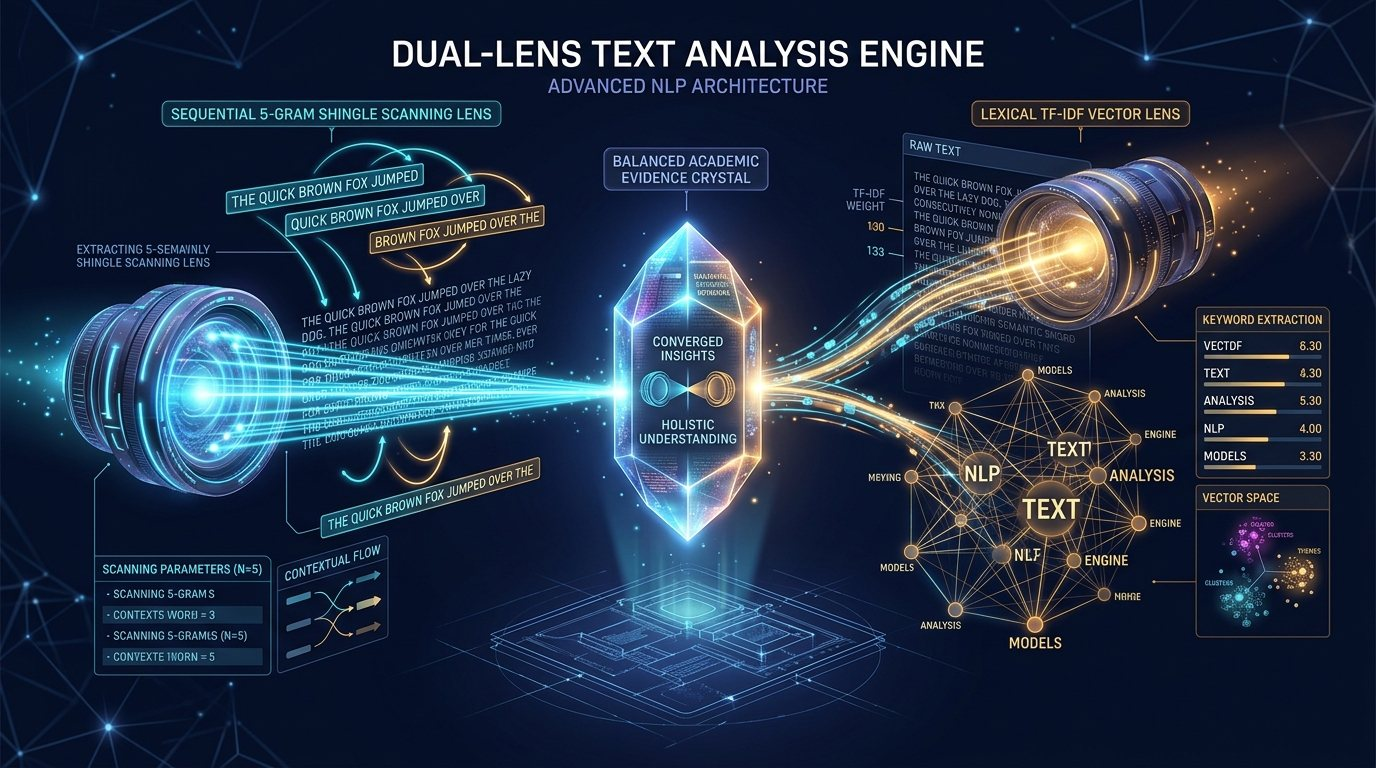
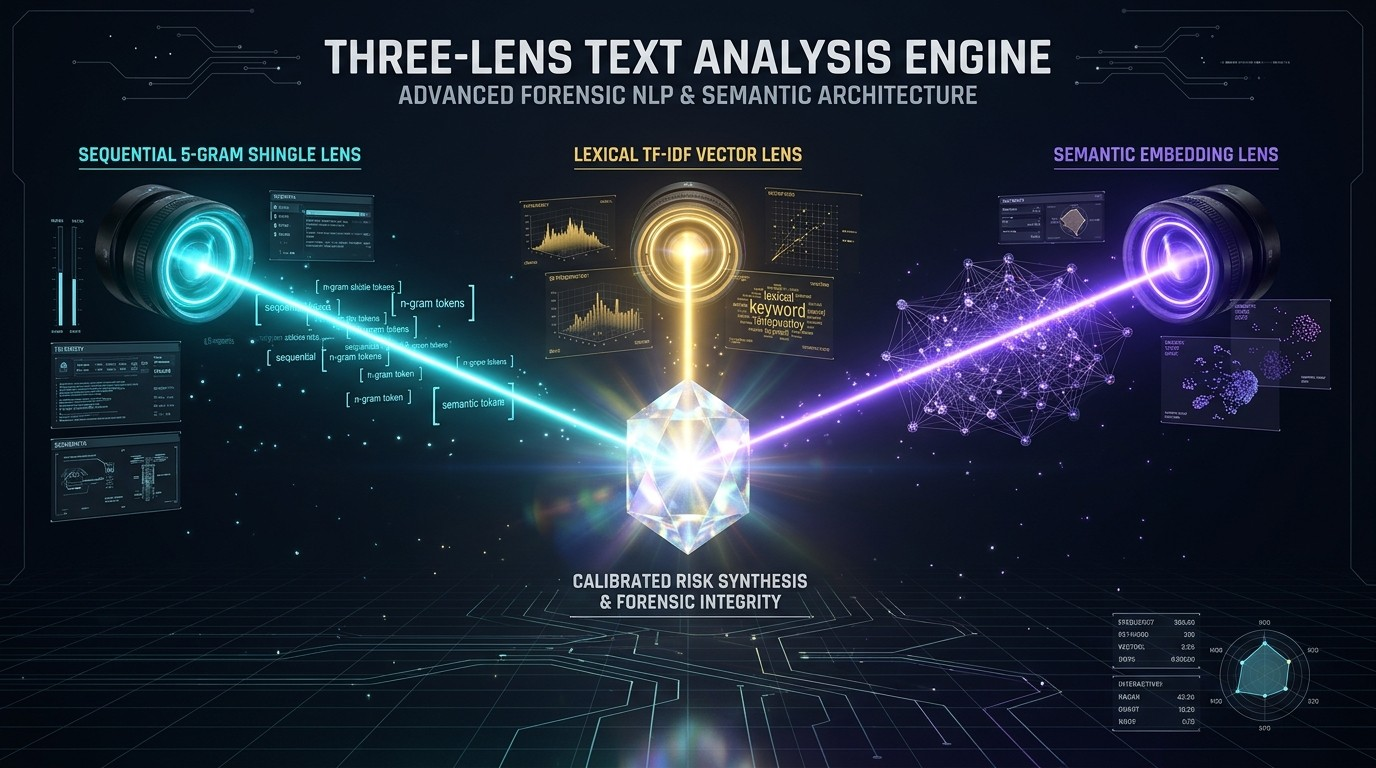
feat(benchmark): add Latin capability boundary row and regenerate three-lens concept diagram

diff --git a/app/Views/landing/benchmark.php b/app/Views/landing/benchmark.php
@@ -1627,6 +1627,25 @@ guna menguji pengaruh variabel independen terhadap variabel dependen dengan tara
                                 </span>
                             </td>
                         </tr>
+                        <tr style="background: rgba(254, 242, 242, 0.65);">
+                            <td><strong>Indonesia ↔ Latin (LA)</strong><br><span style="font-size: 11px; color: #be123c; font-weight: 700;">Batas Kapabilitas Terbuka</span></td>
+                            <td>Vulgata Kitab Suci (Kejadian, Mazmur, Injil), Liturgi Katolik (Pater Noster, Credo), Hukum Romawi Klasik (Ulpianus)</td>
+                            <td style="text-align: center; font-mono-code; font-weight: 700; color: #991b1b;">0.3019</td>
+                            <td style="text-align: center; font-mono-code; font-size: 12px; color: #991b1b;">0.18 .. 0.41</td>
+                            <td style="text-align: center; font-weight: 800; color: #991b1b;">
+                                0 / 10 (0.0%)<br>
+                                <span style="font-size: 10px; color: #be123c; font-weight: 600;">Wilson: 0,0% – 27,8%</span>
+                            </td>
+                            <td style="text-align: center; font-weight: 800; color: #991b1b;">
+                                0 / 10 (0.0%)<br>
+                                <span style="font-size: 10px; color: #be123c; font-weight: 600;">Wilson: 0,0% – 27,8%</span>
+                            </td>
+                            <td>
+                                <span style="font-size: 11px; padding: 2px 8px; border-radius: 4px; background: #fee2e2; color: #991b1b; font-weight: 800;">
+                                    Tanpa Lencana (Di Luar Jangkauan MiniLM-L12)
+                                </span>
+                            </td>
+                        </tr>
                     </tbody>
                 </table>
             </div>
@@ -1635,7 +1654,7 @@ guna menguji pengaruh variabel independen terhadap variabel dependen dengan tara
             <div style="display: grid; grid-template-columns: repeat(auto-fit, minmax(300px, 1fr)); gap: 14px; margin-top: 16px;">
                 <div style="background: #f8fafc; border: 1px solid #e2e8f0; border-radius: 12px; p: 14px; padding: 14px;">
                     <h4 style="font-size: 13px; font-weight: 800; color: var(--dark); margin: 0 0 6px 0;">
-                        🔍 Temuan Pergeseran Aksara (Latin vs Non-Latin)
+                        🔍 Temuan Pergeseran Aksara (Aksara Latin vs Non-Latin)
                     </h4>
                     <p style="font-size: 12px; color: var(--text); line-height: 1.6; margin: 0;">
                         * <strong>Rumpun Aksara Latin (EN, NL, DE)</strong>: Rerata kosinus $0{,}8104$ | Recall@0.75: $73{,}3\%$ | Recall@0.70: $93{,}3\%$.<br>
@@ -1654,6 +1673,17 @@ guna menguji pengaruh variabel independen terhadap variabel dependen dengan tara
                         * <strong>Kosinus Puncak Terbersih</strong>: $0{,}2274$ (22,7%)<br>
                         * <strong>False Positive Rate</strong>: $0{,}0\%$ pada ambang $0{,}75$ dan $0{,}0\%$ pada ambang $0{,}70$.<br>
                         * <strong>Margin Keamanan Anti-Salah-Tuduh</strong>: $+47{,}3$ poin ke ambang $0{,}70$ dan $+52{,}3$ poin ke ambang $0{,}75$.
+                    </p>
+                </div>
+
+                <div style="background: #fff1f2; border: 1px solid #fecdd3; border-radius: 12px; padding: 14px;">
+                    <h4 style="font-size: 13px; font-weight: 800; color: #9f1239; margin: 0 0 6px 0;">
+                        🏛 Batas Kapabilitas Terbuka: Bahasa Latin Klasik ($N=10$)
+                    </h4>
+                    <p style="font-size: 12px; color: #881337; line-height: 1.6; margin: 0;">
+                        * <strong>Distingsi Bahasa vs Rumpun Aksara</strong>: Istilah <em>Aksara Latin</em> merujuk pada alfabet fonetik bahasa modern (EN, NL, DE). Sedangkan <strong>Bahasa Latin Klasik/Gerejawi (LA)</strong> diuji secara terpisah pada 10 teks kanonik (Kitab Suci Vulgata, liturgi Katolik, dan asas hukum Romawi).<br>
+                        * <strong>Hasil Kalibrasi Empiris</strong>: Rerata kosinus hanya <strong>$0{,}3019$</strong> (rentang 0,18 .. 0,41) dengan Recall <strong>$0{,}0\%$</strong> pada ambang $0{,}75$ maupun $0{,}70$ (batas bawah Wilson $0{,}0\%$).<br>
+                        * <strong>Prinsip Keterbukaan Ilmiah</strong>: MiniLM-L12 tidak dilatih untuk proyeksi bahasa klasik/mati. AR Tilik menetapkan Bahasa Latin berstatus <strong>Tanpa Lencana</strong>. Pada konteks kampus teologi/liturgi (seperti karya akademik di STAKat Negeri Pontianak), kutipan teks Latin dilindungi melalui <strong>Lensa 1 Exact Matcher</strong> dan deteksi sitasi resmi, bukan proyeksi semantik.
                     </p>
                 </div>
             </div>
@@ -1878,6 +1908,10 @@ docker compose -f docker-compose.yml up -d
                     <svg width="16" height="16" fill="none" stroke="currentColor" stroke-width="2" viewBox="0 0 24 24"><path d="M4 16v1a3 3 0 003 3h10a3 3 0 003-3v-1m-4-4l-4 4m0 0l-4-4m4 4V4"/></svg>
                     <span>Unduh Laporan Kalibrasi Wilson (JSON)</span>
                 </a>
+                <a href="<?= base_url('datasets/artilik_latin_benchmark_dataset.json') ?>" download="artilik_latin_12_cases_benchmark.json" target="_blank" class="btn-secondary" style="border-color: #be123c; color: #be123c; background: #fff1f2;">
+                    <svg width="16" height="16" fill="none" stroke="currentColor" stroke-width="2" viewBox="0 0 24 24"><path d="M4 16v1a3 3 0 003 3h10a3 3 0 003-3v-1m-4-4l-4 4m0 0l-4-4m4 4V4"/></svg>
+                    <span>Unduh Dataset Batas Latin (12 Kasus JSON)</span>
+                </a>
                 <a href="<?= base_url('datasets/artilik_semantic_paraphrase_benchmark.json') ?>" download="artilik_semantic_paraphrase_80_cases.json" target="_blank" class="btn-primary" style="background: #4f46e5;">
                     <svg width="16" height="16" fill="none" stroke="currentColor" stroke-width="2" viewBox="0 0 24 24"><path d="M4 16v1a3 3 0 003 3h10a3 3 0 003-3v-1m-4-4l-4 4m0 0l-4-4m4 4V4"/></svg>
                     <span>Unduh Dataset Parafrase Semantik (80 Kasus JSON)</span>
@@ -1900,6 +1934,8 @@ docker compose -f docker-compose.yml up -d
                 Tautan alternatif rute controller / API:<br>
                 <a href="<?= base_url('benchmark/dataset/cross_lingual_60') ?>" target="_blank" style="color: var(--primary); text-decoration: underline; margin: 0 6px;">/benchmark/dataset/cross_lingual_60</a> |
                 <a href="<?= base_url('benchmark/dataset/cross_lingual_report') ?>" target="_blank" style="color: var(--primary); text-decoration: underline; margin: 0 6px;">/benchmark/dataset/cross_lingual_report</a> |
+                <a href="<?= base_url('benchmark/dataset/latin_12') ?>" target="_blank" style="color: #be123c; text-decoration: underline; margin: 0 6px; font-weight: 700;">/benchmark/dataset/latin_12</a> |
+                <a href="<?= base_url('benchmark/dataset/latin_report') ?>" target="_blank" style="color: #be123c; text-decoration: underline; margin: 0 6px;">/benchmark/dataset/latin_report</a> |
                 <a href="<?= base_url('benchmark/dataset/semantic_80') ?>" target="_blank" style="color: var(--primary); text-decoration: underline; margin: 0 6px;">/benchmark/dataset/semantic_80</a> |
                 <a href="<?= base_url('benchmark/dataset/semantic_report') ?>" target="_blank" style="color: var(--primary); text-decoration: underline; margin: 0 6px;">/benchmark/dataset/semantic_report</a> |
                 <a href="<?= base_url('benchmark/dataset/targeted_80') ?>" target="_blank" style="color: var(--primary); text-decoration: underline; margin: 0 6px;">/benchmark/dataset/targeted_80</a> |

diff --git a/app/Views/landing/index.php b/app/Views/landing/index.php
@@ -3328,8 +3328,8 @@
             <div class="spotlight-card" data-aos="fade-up" data-aos-duration="800">
                 <div class="spotlight-img-wrap" data-aos="fade-right" data-aos-delay="100" data-aos-duration="800">
                     <picture>
-                        <source srcset="<?= base_url('images/dual_lens_concept.webp') ?>" type="image/webp">
-                        <img src="<?= base_url('images/dual_lens_concept.jpg') ?>" alt="Konsep Arsitektur Tiga Lensa AR Tilik" loading="lazy" width="800" height="450">
+                        <source srcset="<?= base_url('images/three_lens_concept.webp') ?>" type="image/webp">
+                        <img src="<?= base_url('images/three_lens_concept.jpg') ?>" alt="Konsep Arsitektur Tiga Lensa AR Tilik" loading="lazy" width="800" height="450">
                     </picture>
                     <div class="spotlight-caption">
                         <span>LENSA 1: Sequential 5-Gram</span>
